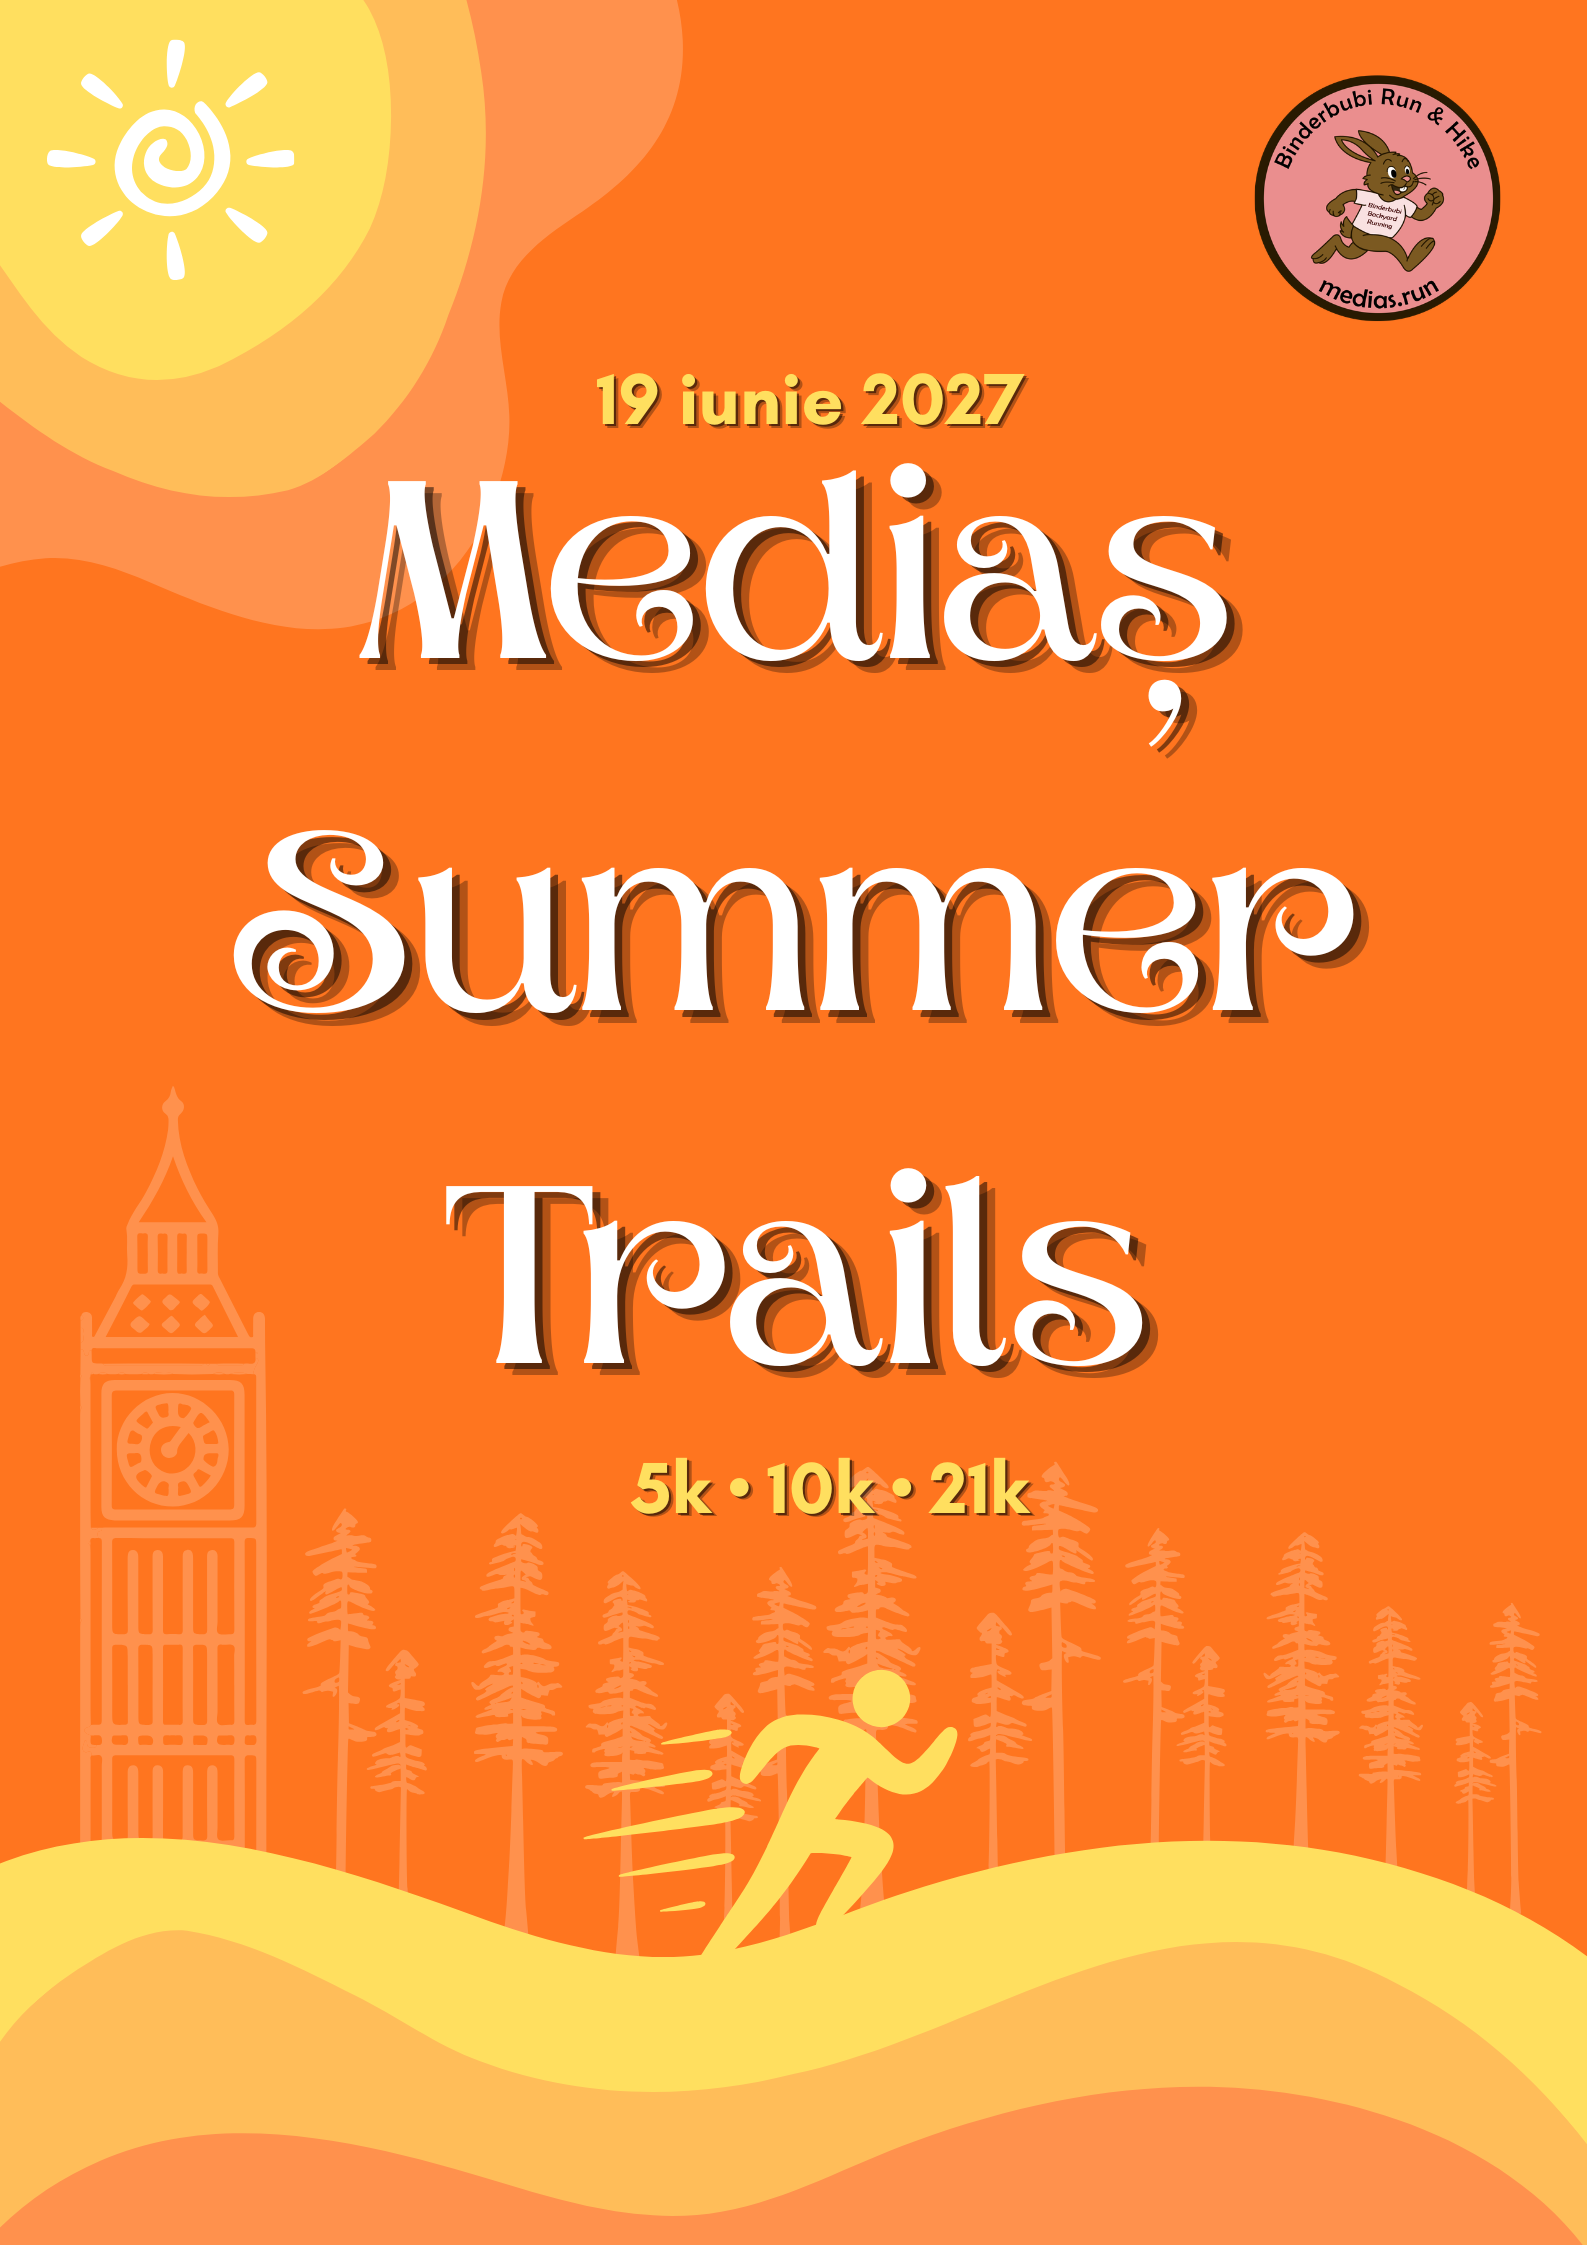
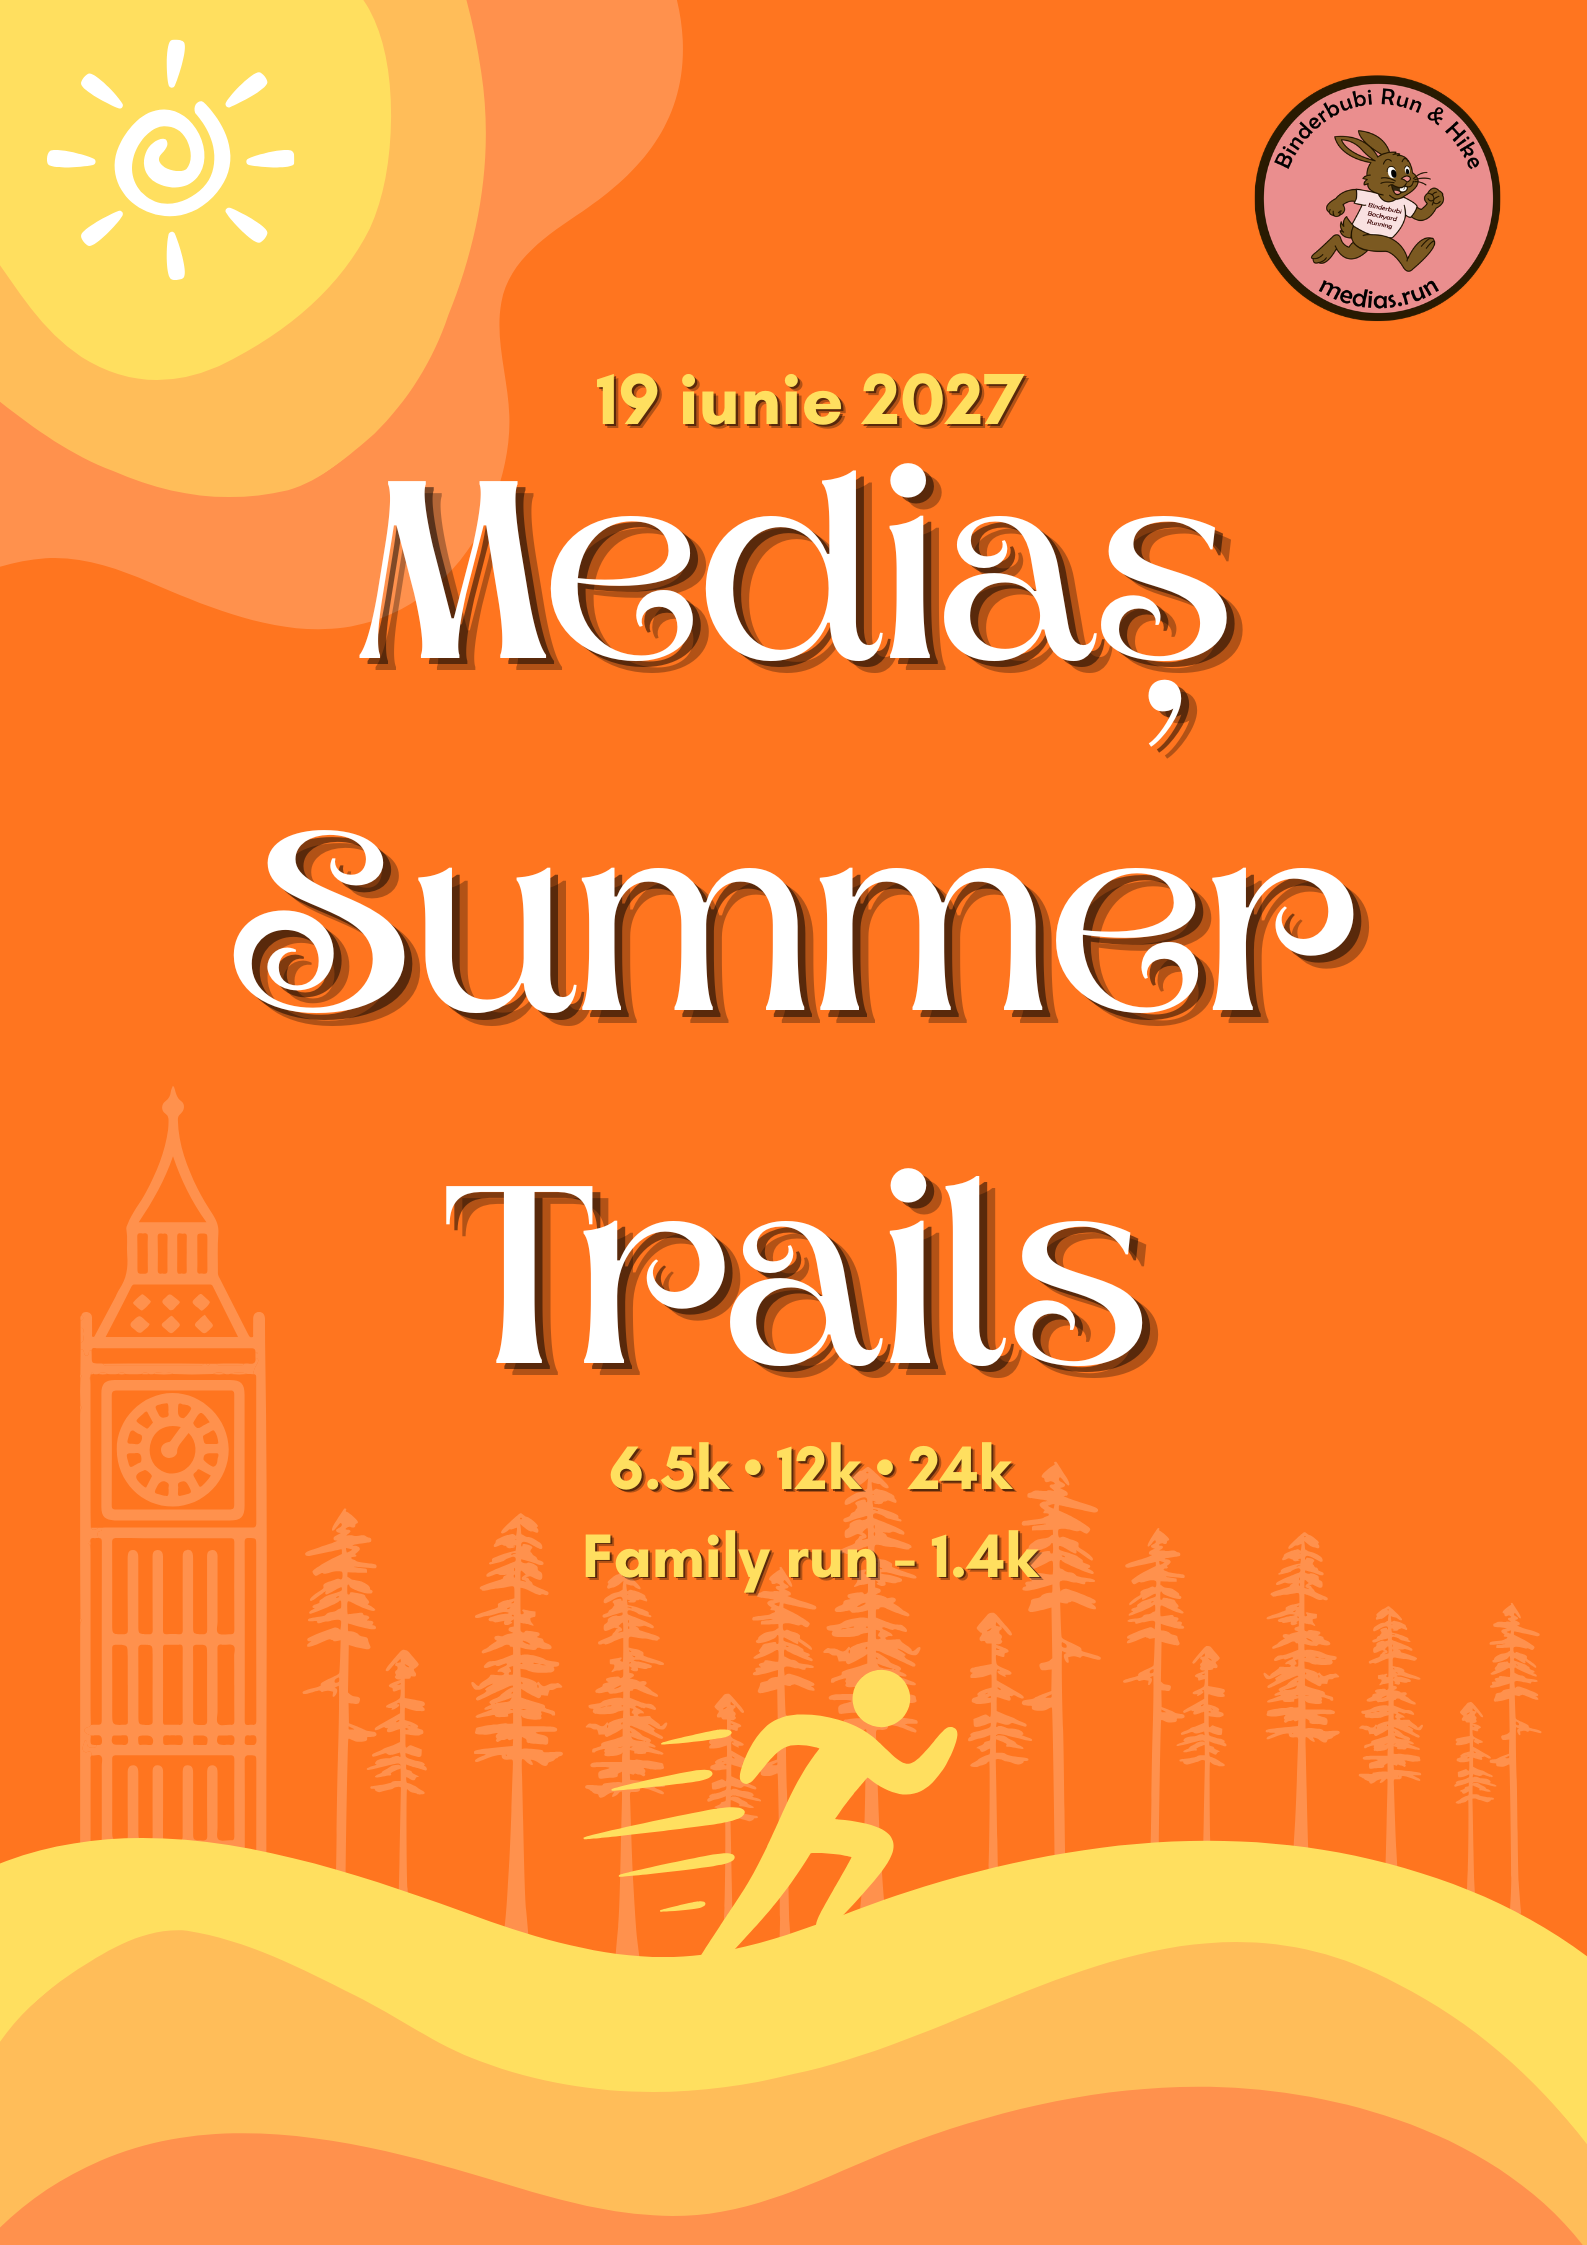
updated summertrails information

Changed region(s): [[0.3705, 0.6236, 0.6484, 0.7171]]

diff --git a/src/components/Navbar.jsx b/src/components/Navbar.jsx
@@ -47,7 +47,7 @@ export default function Navbar() {
       }`}
     >
       <div className="flex items-center justify-between px-5 md:px-10 py-3">
-        <div className="flex items-center gap-2 shrink-0">
+        <div className="flex items-center pr-5 gap-2 shrink-0">
         <Link to="/" >
           <img src="/logo/logo.webp" alt="Binderbubi Backyard Running" className="h-12 w-auto" />
         </Link>
